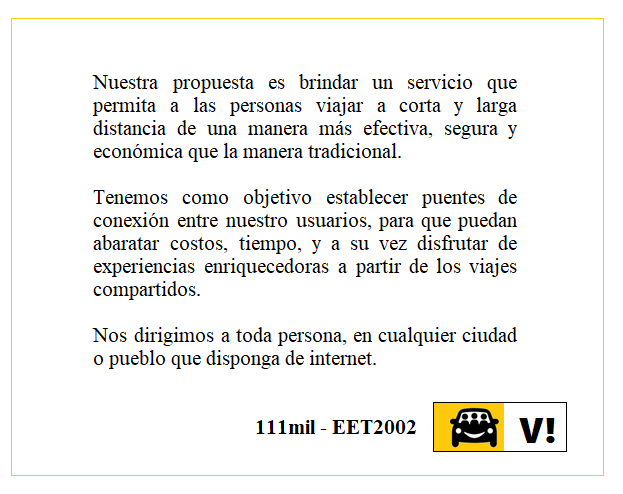
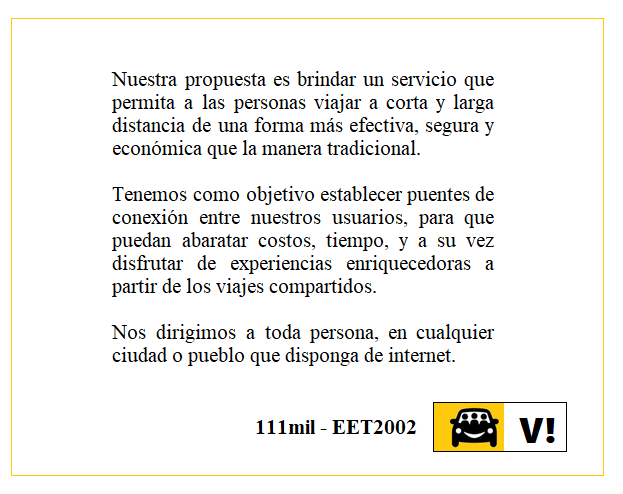
Corrección

Changed region(s): [[0.1525, 0.3644, 0.8234, 0.6073], [0.1525, 0.1518, 0.8234, 0.334], [0.1525, 0.6377, 0.8539, 0.7591]]

diff --git a/README.md b/README.md
@@ -7,7 +7,7 @@ Esperamos que ayude mucho a encontrar su destino y la mejor manera de llegar
 
 
 ## Servicios
-Nuestra propuesta es brindar un servicio que permita a las personas viajar a corta y larga distancia de una manera mas efectiva, segura y económica que la manera tradicional.
+Nuestra propuesta es brindar un servicio que permita a las personas viajar a corta y larga distancia de una forma mas efectiva, segura y económica que la manera tradicional.
 Tenemos como objetivo establecer puentes de conexión entre nuestros usuarios, para que puedan abaratar costos, tiempo, y a su vez disfrutar de experiencias enriquecedoras a partir de viajes compartidos.
 Nos dirigimos a toda persona, en cualquier ciudad o pueblo que desponga de internet
 
